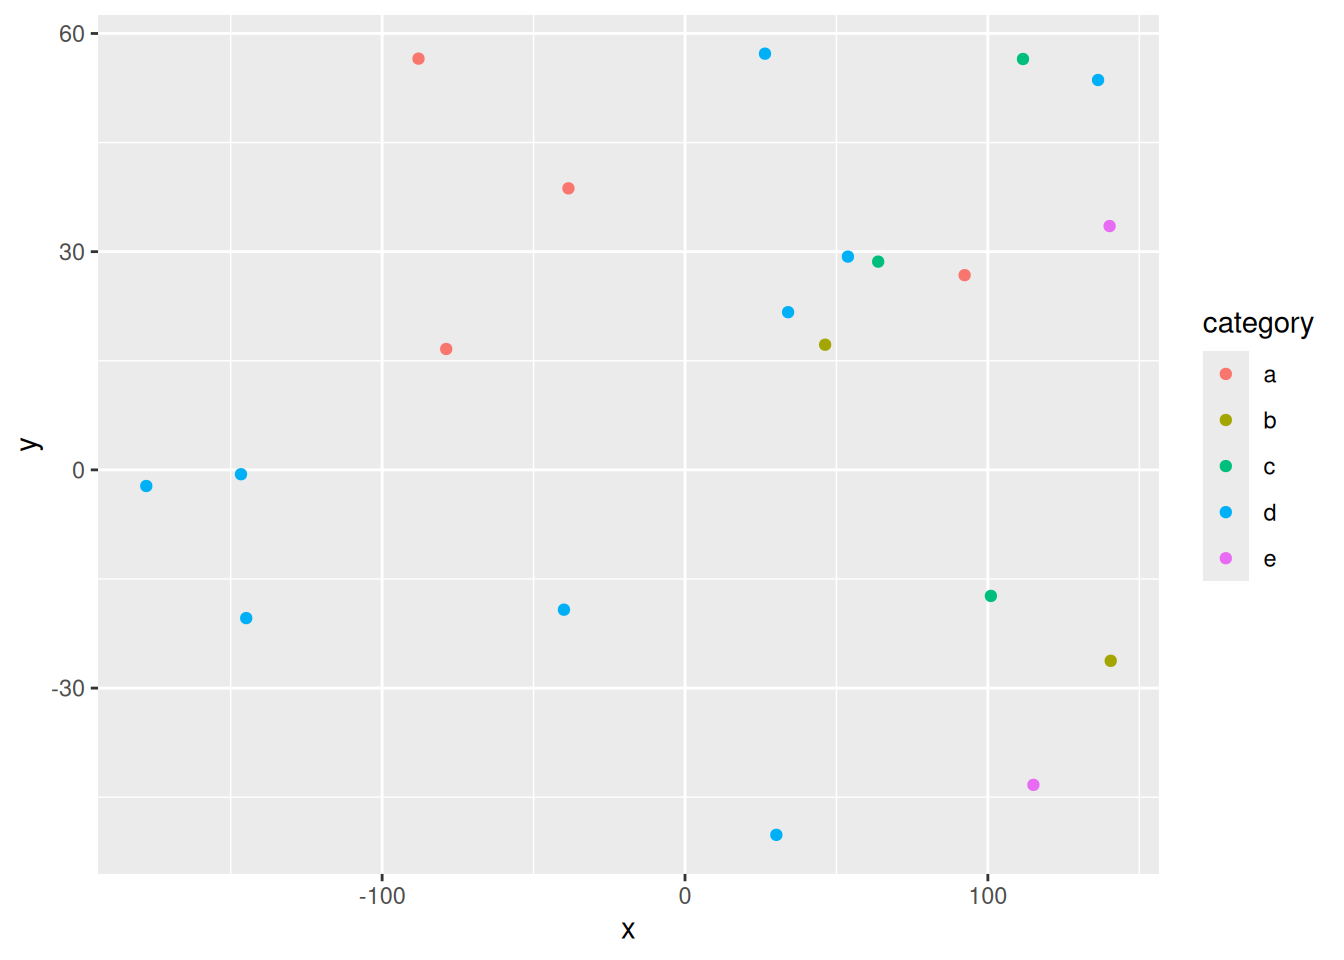
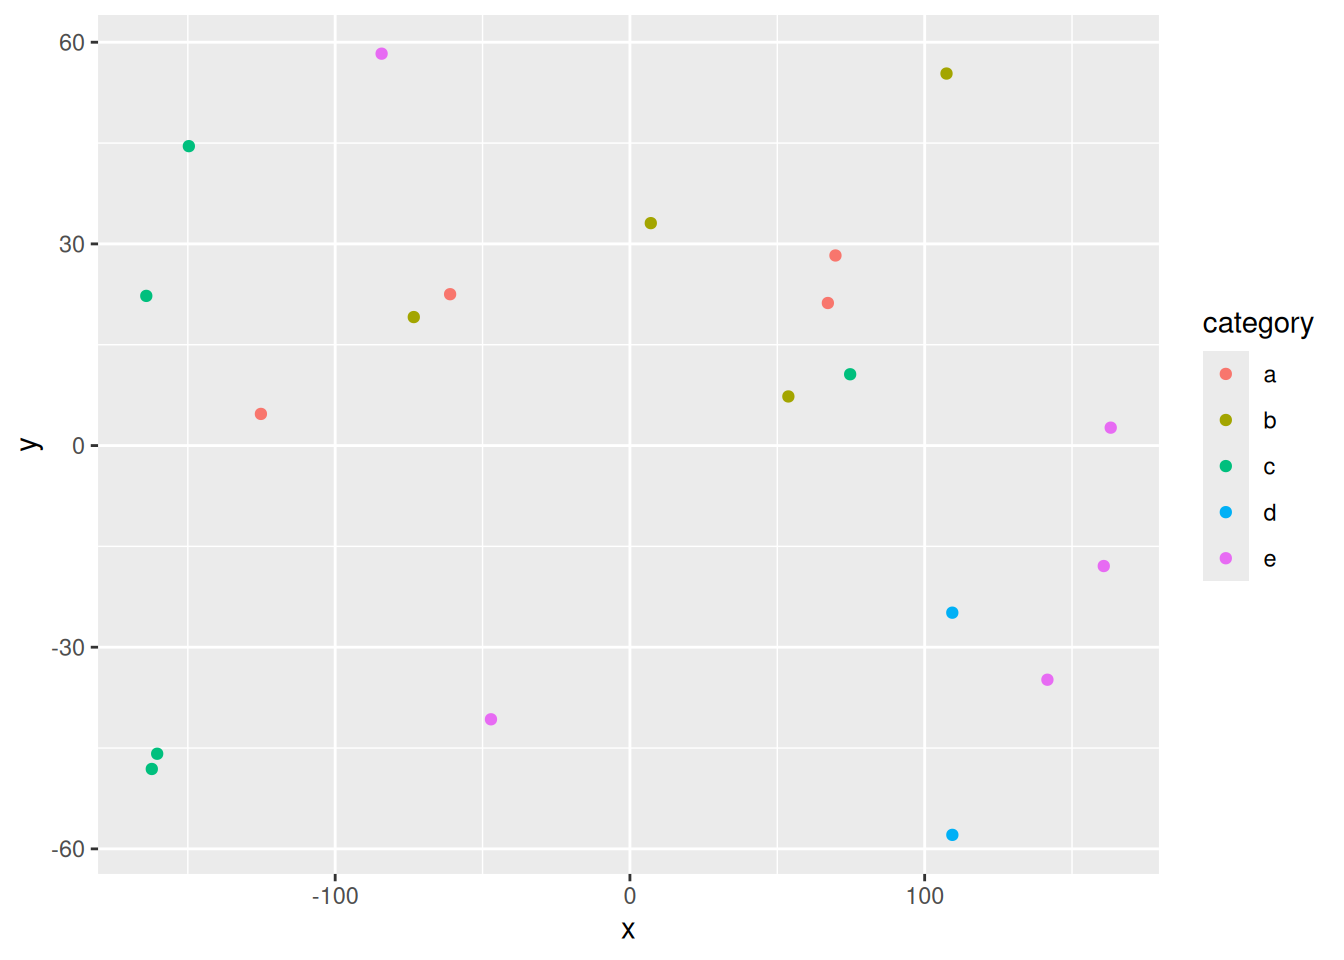
Built site for gh-pages

diff --git a/index.html b/index.html
@@ -7,7 +7,7 @@
 <meta name="viewport" content="width=device-width, initial-scale=1.0, user-scalable=yes">
 
 <meta name="author" content="Your name here">
-<meta name="dcterms.date" content="2025-10-23">
+<meta name="dcterms.date" content="2025-11-10">
 
 <title>My Final Project Template – GEO511_FinalProject</title>
 <style>
@@ -190,7 +190,7 @@ pre > code.sourceCode > span > a:first-child::before { text-decoration: underlin
     <div>
     <div class="quarto-title-meta-heading">Published</div>
     <div class="quarto-title-meta-contents">
-      <p class="date">October 23, 2025</p>
+      <p class="date">November 10, 2025</p>
     </div>
   </div>
   
@@ -271,74 +271,74 @@ pre > code.sourceCode > span > a:first-child::before { text-decoration: underlin
 </thead>
 <tbody>
 <tr class="odd">
-<td style="text-align: center;">53.79</td>
-<td style="text-align: center;">29.32</td>
-<td style="text-align: center;">12.93</td>
+<td style="text-align: center;">109.38</td>
+<td style="text-align: center;">-24.86</td>
+<td style="text-align: center;">14.96</td>
 <td style="text-align: center;">d</td>
-<td style="text-align: center;">-1.07</td>
+<td style="text-align: center;">-0.86</td>
 </tr>
 <tr class="even">
-<td style="text-align: center;">-177.87</td>
-<td style="text-align: center;">-2.22</td>
-<td style="text-align: center;">6.03</td>
-<td style="text-align: center;">d</td>
-<td style="text-align: center;">-0.33</td>
-</tr>
-<tr class="odd">
-<td style="text-align: center;">26.41</td>
-<td style="text-align: center;">57.22</td>
-<td style="text-align: center;">10.30</td>
-<td style="text-align: center;">d</td>
-<td style="text-align: center;">0.57</td>
-</tr>
-<tr class="even">
-<td style="text-align: center;">-144.87</td>
-<td style="text-align: center;">-20.38</td>
-<td style="text-align: center;">19.46</td>
-<td style="text-align: center;">d</td>
-<td style="text-align: center;">0.09</td>
-</tr>
-<tr class="odd">
-<td style="text-align: center;">-39.97</td>
-<td style="text-align: center;">-19.22</td>
-<td style="text-align: center;">6.67</td>
-<td style="text-align: center;">d</td>
-<td style="text-align: center;">1.36</td>
-</tr>
-<tr class="even">
-<td style="text-align: center;">111.60</td>
-<td style="text-align: center;">56.49</td>
-<td style="text-align: center;">15.22</td>
-<td style="text-align: center;">c</td>
-<td style="text-align: center;">-1.84</td>
-</tr>
-<tr class="odd">
-<td style="text-align: center;">136.38</td>
-<td style="text-align: center;">53.60</td>
-<td style="text-align: center;">12.09</td>
-<td style="text-align: center;">d</td>
-<td style="text-align: center;">-0.33</td>
-</tr>
-<tr class="even">
-<td style="text-align: center;">30.16</td>
-<td style="text-align: center;">-50.18</td>
-<td style="text-align: center;">5.21</td>
-<td style="text-align: center;">d</td>
-<td style="text-align: center;">0.28</td>
-</tr>
-<tr class="odd">
-<td style="text-align: center;">115.04</td>
-<td style="text-align: center;">-43.30</td>
-<td style="text-align: center;">15.40</td>
+<td style="text-align: center;">-47.14</td>
+<td style="text-align: center;">-40.72</td>
+<td style="text-align: center;">7.38</td>
 <td style="text-align: center;">e</td>
-<td style="text-align: center;">2.83</td>
+<td style="text-align: center;">2.34</td>
+</tr>
+<tr class="odd">
+<td style="text-align: center;">-164.09</td>
+<td style="text-align: center;">22.26</td>
+<td style="text-align: center;">13.46</td>
+<td style="text-align: center;">c</td>
+<td style="text-align: center;">-0.23</td>
 </tr>
 <tr class="even">
-<td style="text-align: center;">34.04</td>
-<td style="text-align: center;">21.68</td>
-<td style="text-align: center;">8.04</td>
+<td style="text-align: center;">107.41</td>
+<td style="text-align: center;">55.34</td>
+<td style="text-align: center;">9.95</td>
+<td style="text-align: center;">b</td>
+<td style="text-align: center;">-0.32</td>
+</tr>
+<tr class="odd">
+<td style="text-align: center;">160.77</td>
+<td style="text-align: center;">-17.92</td>
+<td style="text-align: center;">14.18</td>
+<td style="text-align: center;">e</td>
+<td style="text-align: center;">-0.68</td>
+</tr>
+<tr class="even">
+<td style="text-align: center;">109.40</td>
+<td style="text-align: center;">-57.92</td>
+<td style="text-align: center;">9.51</td>
 <td style="text-align: center;">d</td>
-<td style="text-align: center;">0.13</td>
+<td style="text-align: center;">-0.19</td>
+</tr>
+<tr class="odd">
+<td style="text-align: center;">-73.33</td>
+<td style="text-align: center;">19.12</td>
+<td style="text-align: center;">14.43</td>
+<td style="text-align: center;">b</td>
+<td style="text-align: center;">-0.69</td>
+</tr>
+<tr class="even">
+<td style="text-align: center;">163.13</td>
+<td style="text-align: center;">2.66</td>
+<td style="text-align: center;">18.37</td>
+<td style="text-align: center;">e</td>
+<td style="text-align: center;">-0.45</td>
+</tr>
+<tr class="odd">
+<td style="text-align: center;">7.08</td>
+<td style="text-align: center;">33.09</td>
+<td style="text-align: center;">7.65</td>
+<td style="text-align: center;">b</td>
+<td style="text-align: center;">-0.27</td>
+</tr>
+<tr class="even">
+<td style="text-align: center;">-149.65</td>
+<td style="text-align: center;">44.54</td>
+<td style="text-align: center;">18.89</td>
+<td style="text-align: center;">c</td>
+<td style="text-align: center;">-0.88</td>
 </tr>
 </tbody>
 </table>
@@ -358,8 +358,8 @@ pre > code.sourceCode > span > a:first-child::before { text-decoration: underlin
 <span id="cb5-4"><a href="#cb5-4" aria-hidden="true" tabindex="-1"></a>  <span class="fu">addPopups</span>(<span class="sc">~</span>x[<span class="dv">2</span>], <span class="sc">~</span>y[<span class="dv">2</span>], <span class="st">"Random popup"</span>)</span>
 <span id="cb5-5"><a href="#cb5-5" aria-hidden="true" tabindex="-1"></a>m  <span class="co"># a map with the default OSM tile layer</span></span></code></pre></div><button title="Copy to Clipboard" class="code-copy-button"><i class="bi"></i></button></div>
 <div class="cell-output-display">
-<div class="leaflet html-widget html-fill-item" id="htmlwidget-3500131f43f1b51f72bf" style="width:100%;height:325px;"></div>
-<script type="application/json" data-for="htmlwidget-3500131f43f1b51f72bf">{"x":{"options":{"crs":{"crsClass":"L.CRS.EPSG3857","code":null,"proj4def":null,"projectedBounds":null,"options":{}}},"calls":[{"method":"addTiles","args":["https://{s}.tile.openstreetmap.org/{z}/{x}/{y}.png",null,null,{"minZoom":0,"maxZoom":18,"tileSize":256,"subdomains":"abc","errorTileUrl":"","tms":false,"noWrap":false,"zoomOffset":0,"zoomReverse":false,"opacity":1,"zIndex":1,"detectRetina":false,"attribution":"&copy; <a href=\"https://openstreetmap.org/copyright/\">OpenStreetMap<\/a>,  <a href=\"https://opendatacommons.org/licenses/odbl/\">ODbL<\/a>"}]},{"method":"addCircleMarkers","args":[[29.32143260724843,-2.217056108638644,57.22122785635293,-20.38027443923056,-19.22183451242745,56.48714544251561,53.60004108399153,-50.18150324933231,-43.30370276235044,21.67820437811315,33.52087682113051,28.62943145446479,56.54016640037298,16.61862932145596,-17.33095253817737,-26.25238973647356,26.77203113213181,-0.5999741144478321,17.20906298607588,38.70516300201416],[53.78805935382843,-177.8660380281508,26.41120305284858,-144.865376483649,-39.96949796564877,111.5983105637133,136.3840375375003,30.16264208592474,115.0356755778193,34.03960238210857,140.1912639196962,63.78247238695621,-87.98833577893674,-78.8395537622273,100.9929083380848,140.5605056136847,92.32321000657976,-146.5976640768349,46.26656021922827,-38.4827397018671],[12.93352014850825,6.034817178733647,10.30200644163415,19.46151993819512,6.674930345034227,15.21806569653563,12.08990148035809,5.20958787179552,15.40103744948283,8.03518156753853,18.64350995398127,10.58376577566378,19.494179940084,9.645543943624943,7.847512232838199,10.61626432463527,18.99728662101552,6.590229156427085,12.28545587393455,15.88225798564963],null,null,{"interactive":true,"className":"","stroke":true,"color":["d","d","d","d","d","c","d","d","e","d","e","c","a","a","c","b","a","d","b","a"],"weight":5,"opacity":0.5,"fill":true,"fillColor":["d","d","d","d","d","c","d","d","e","d","e","c","a","a","c","b","a","d","b","a"],"fillOpacity":0.2},null,null,null,null,null,{"interactive":false,"permanent":false,"direction":"auto","opacity":1,"offset":[0,0],"textsize":"10px","textOnly":false,"className":"","sticky":true},null]},{"method":"addPopups","args":[-2.217056108638644,-177.8660380281508,"Random popup",null,null,{"maxWidth":300,"minWidth":50,"autoPan":true,"keepInView":false,"closeButton":true,"className":""}]}],"limits":{"lat":[-50.18150324933231,57.22122785635293],"lng":[-177.8660380281508,140.5605056136847]}},"evals":[],"jsHooks":[]}</script>
+<div class="leaflet html-widget html-fill-item" id="htmlwidget-d76a1faff56ae2c4dcf8" style="width:100%;height:325px;"></div>
+<script type="application/json" data-for="htmlwidget-d76a1faff56ae2c4dcf8">{"x":{"options":{"crs":{"crsClass":"L.CRS.EPSG3857","code":null,"proj4def":null,"projectedBounds":null,"options":{}}},"calls":[{"method":"addTiles","args":["https://{s}.tile.openstreetmap.org/{z}/{x}/{y}.png",null,null,{"minZoom":0,"maxZoom":18,"tileSize":256,"subdomains":"abc","errorTileUrl":"","tms":false,"noWrap":false,"zoomOffset":0,"zoomReverse":false,"opacity":1,"zIndex":1,"detectRetina":false,"attribution":"&copy; <a href=\"https://openstreetmap.org/copyright/\">OpenStreetMap<\/a>,  <a href=\"https://opendatacommons.org/licenses/odbl/\">ODbL<\/a>"}]},{"method":"addCircleMarkers","args":[[-24.86333356238902,-40.72499943897128,22.26440752856433,55.34326552413404,-17.9239553399384,-57.91856118477881,19.11507083103061,2.662111222743988,33.08931517414749,44.54291573725641,10.60601835139096,7.304022358730435,22.51632872968912,28.2769126072526,-45.84983448497951,-34.83703594654799,4.707073615863919,-48.11648779548705,58.30039529129863,21.20635553263128],[109.3778459262103,-47.14352857321501,-164.0889817290008,107.413644483313,160.7674935087562,109.3987424299121,-73.33131350576878,163.1280370149761,7.083243699744344,-149.6486742328852,74.7239145822823,53.76079075969756,-61.0068747214973,69.73653894849122,-160.3947418089956,141.6502440534532,-125.2006402239203,-162.2206259239465,-84.24756590276957,67.16060064733028],[14.96469126548618,7.381911666598171,13.45560044050217,9.947387669235468,14.18258983641863,9.511097919894382,14.43188149132766,18.36712392279878,7.651971410959959,18.888154810993,7.587072129826993,11.8602239608299,19.7368807438761,10.51097368937917,5.109427286079153,17.56059835781343,6.019889417802915,19.49577332590707,8.763547645648941,6.869137515313923],null,null,{"interactive":true,"className":"","stroke":true,"color":["d","e","c","b","e","d","b","e","b","c","c","b","a","a","c","e","a","c","e","a"],"weight":5,"opacity":0.5,"fill":true,"fillColor":["d","e","c","b","e","d","b","e","b","c","c","b","a","a","c","e","a","c","e","a"],"fillOpacity":0.2},null,null,null,null,null,{"interactive":false,"permanent":false,"direction":"auto","opacity":1,"offset":[0,0],"textsize":"10px","textOnly":false,"className":"","sticky":true},null]},{"method":"addPopups","args":[-40.72499943897128,-47.14352857321501,"Random popup",null,null,{"maxWidth":300,"minWidth":50,"autoPan":true,"keepInView":false,"closeButton":true,"className":""}]}],"limits":{"lat":[-57.91856118477881,58.30039529129863],"lng":[-164.0889817290008,163.1280370149761]}},"evals":[],"jsHooks":[]}</script>
 <p>Map of completely random data</p>
 </div>
 </div>
@@ -382,8 +382,8 @@ pre > code.sourceCode > span > a:first-child::before { text-decoration: underlin
 <span id="cb7-2"><a href="#cb7-2" aria-hidden="true" tabindex="-1"></a><span class="fu">dygraph</span>(nhtemp, <span class="at">main =</span> <span class="st">"New Haven Temperatures"</span>) <span class="sc">|&gt;</span> </span>
 <span id="cb7-3"><a href="#cb7-3" aria-hidden="true" tabindex="-1"></a>  <span class="fu">dyRangeSelector</span>(<span class="at">dateWindow =</span> <span class="fu">c</span>(<span class="st">"1920-01-01"</span>, <span class="st">"1960-01-01"</span>)) </span></code></pre></div><button title="Copy to Clipboard" class="code-copy-button"><i class="bi"></i></button></div>
 <div class="cell-output-display">
-<div class="dygraphs html-widget html-fill-item" id="htmlwidget-f2fcaa111210c8c0810b" style="width:100%;height:464px;"></div>
-<script type="application/json" data-for="htmlwidget-f2fcaa111210c8c0810b">{"x":{"attrs":{"title":"New Haven Temperatures","labels":["year","V1"],"legend":"auto","retainDateWindow":false,"axes":{"x":{"pixelsPerLabel":60}},"showRangeSelector":true,"dateWindow":["1920-01-01T00:00:00.000Z","1960-01-01T00:00:00.000Z"],"rangeSelectorHeight":40,"rangeSelectorPlotFillColor":" #A7B1C4","rangeSelectorPlotStrokeColor":"#808FAB","interactionModel":"Dygraph.Interaction.defaultModel"},"scale":"yearly","annotations":[],"shadings":[],"events":[],"format":"date","data":[["1912-01-01T00:00:00.000Z","1913-01-01T00:00:00.000Z","1914-01-01T00:00:00.000Z","1915-01-01T00:00:00.000Z","1916-01-01T00:00:00.000Z","1917-01-01T00:00:00.000Z","1918-01-01T00:00:00.000Z","1919-01-01T00:00:00.000Z","1920-01-01T00:00:00.000Z","1921-01-01T00:00:00.000Z","1922-01-01T00:00:00.000Z","1923-01-01T00:00:00.000Z","1924-01-01T00:00:00.000Z","1925-01-01T00:00:00.000Z","1926-01-01T00:00:00.000Z","1927-01-01T00:00:00.000Z","1928-01-01T00:00:00.000Z","1929-01-01T00:00:00.000Z","1930-01-01T00:00:00.000Z","1931-01-01T00:00:00.000Z","1932-01-01T00:00:00.000Z","1933-01-01T00:00:00.000Z","1934-01-01T00:00:00.000Z","1935-01-01T00:00:00.000Z","1936-01-01T00:00:00.000Z","1937-01-01T00:00:00.000Z","1938-01-01T00:00:00.000Z","1939-01-01T00:00:00.000Z","1940-01-01T00:00:00.000Z","1941-01-01T00:00:00.000Z","1942-01-01T00:00:00.000Z","1943-01-01T00:00:00.000Z","1944-01-01T00:00:00.000Z","1945-01-01T00:00:00.000Z","1946-01-01T00:00:00.000Z","1947-01-01T00:00:00.000Z","1948-01-01T00:00:00.000Z","1949-01-01T00:00:00.000Z","1950-01-01T00:00:00.000Z","1951-01-01T00:00:00.000Z","1952-01-01T00:00:00.000Z","1953-01-01T00:00:00.000Z","1954-01-01T00:00:00.000Z","1955-01-01T00:00:00.000Z","1956-01-01T00:00:00.000Z","1957-01-01T00:00:00.000Z","1958-01-01T00:00:00.000Z","1959-01-01T00:00:00.000Z","1960-01-01T00:00:00.000Z","1961-01-01T00:00:00.000Z","1962-01-01T00:00:00.000Z","1963-01-01T00:00:00.000Z","1964-01-01T00:00:00.000Z","1965-01-01T00:00:00.000Z","1966-01-01T00:00:00.000Z","1967-01-01T00:00:00.000Z","1968-01-01T00:00:00.000Z","1969-01-01T00:00:00.000Z","1970-01-01T00:00:00.000Z","1971-01-01T00:00:00.000Z"],[49.9,52.3,49.4,51.1,49.4,47.9,49.8,50.9,49.3,51.9,50.8,49.6,49.3,50.6,48.4,50.7,50.9,50.6,51.5,52.8,51.8,51.1,49.8,50.2,50.4,51.6,51.8,50.9,48.8,51.7,51,50.6,51.7,51.5,52.1,51.3,51,54,51.4,52.7,53.1,54.6,52,52,50.9,52.6,50.2,52.6,51.6,51.9,50.5,50.9,51.7,51.4,51.7,50.8,51.9,51.8,51.9,53]]},"evals":["attrs.interactionModel"],"jsHooks":[]}</script>
+<div class="dygraphs html-widget html-fill-item" id="htmlwidget-5376f04c85dbf515c9b6" style="width:100%;height:464px;"></div>
+<script type="application/json" data-for="htmlwidget-5376f04c85dbf515c9b6">{"x":{"attrs":{"title":"New Haven Temperatures","labels":["year","V1"],"legend":"auto","retainDateWindow":false,"axes":{"x":{"pixelsPerLabel":60}},"showRangeSelector":true,"dateWindow":["1920-01-01T00:00:00.000Z","1960-01-01T00:00:00.000Z"],"rangeSelectorHeight":40,"rangeSelectorPlotFillColor":" #A7B1C4","rangeSelectorPlotStrokeColor":"#808FAB","interactionModel":"Dygraph.Interaction.defaultModel"},"scale":"yearly","annotations":[],"shadings":[],"events":[],"format":"date","data":[["1912-01-01T00:00:00.000Z","1913-01-01T00:00:00.000Z","1914-01-01T00:00:00.000Z","1915-01-01T00:00:00.000Z","1916-01-01T00:00:00.000Z","1917-01-01T00:00:00.000Z","1918-01-01T00:00:00.000Z","1919-01-01T00:00:00.000Z","1920-01-01T00:00:00.000Z","1921-01-01T00:00:00.000Z","1922-01-01T00:00:00.000Z","1923-01-01T00:00:00.000Z","1924-01-01T00:00:00.000Z","1925-01-01T00:00:00.000Z","1926-01-01T00:00:00.000Z","1927-01-01T00:00:00.000Z","1928-01-01T00:00:00.000Z","1929-01-01T00:00:00.000Z","1930-01-01T00:00:00.000Z","1931-01-01T00:00:00.000Z","1932-01-01T00:00:00.000Z","1933-01-01T00:00:00.000Z","1934-01-01T00:00:00.000Z","1935-01-01T00:00:00.000Z","1936-01-01T00:00:00.000Z","1937-01-01T00:00:00.000Z","1938-01-01T00:00:00.000Z","1939-01-01T00:00:00.000Z","1940-01-01T00:00:00.000Z","1941-01-01T00:00:00.000Z","1942-01-01T00:00:00.000Z","1943-01-01T00:00:00.000Z","1944-01-01T00:00:00.000Z","1945-01-01T00:00:00.000Z","1946-01-01T00:00:00.000Z","1947-01-01T00:00:00.000Z","1948-01-01T00:00:00.000Z","1949-01-01T00:00:00.000Z","1950-01-01T00:00:00.000Z","1951-01-01T00:00:00.000Z","1952-01-01T00:00:00.000Z","1953-01-01T00:00:00.000Z","1954-01-01T00:00:00.000Z","1955-01-01T00:00:00.000Z","1956-01-01T00:00:00.000Z","1957-01-01T00:00:00.000Z","1958-01-01T00:00:00.000Z","1959-01-01T00:00:00.000Z","1960-01-01T00:00:00.000Z","1961-01-01T00:00:00.000Z","1962-01-01T00:00:00.000Z","1963-01-01T00:00:00.000Z","1964-01-01T00:00:00.000Z","1965-01-01T00:00:00.000Z","1966-01-01T00:00:00.000Z","1967-01-01T00:00:00.000Z","1968-01-01T00:00:00.000Z","1969-01-01T00:00:00.000Z","1970-01-01T00:00:00.000Z","1971-01-01T00:00:00.000Z"],[49.9,52.3,49.4,51.1,49.4,47.9,49.8,50.9,49.3,51.9,50.8,49.6,49.3,50.6,48.4,50.7,50.9,50.6,51.5,52.8,51.8,51.1,49.8,50.2,50.4,51.6,51.8,50.9,48.8,51.7,51,50.6,51.7,51.5,52.1,51.3,51,54,51.4,52.7,53.1,54.6,52,52,50.9,52.6,50.2,52.6,51.6,51.9,50.5,50.9,51.7,51.4,51.7,50.8,51.9,51.8,51.9,53]]},"evals":["attrs.interactionModel"],"jsHooks":[]}</script>
 </div>
 </div>
 </section>
@@ -474,7 +474,7 @@ pre > code.sourceCode > span > a:first-child::before { text-decoration: underlin
     }
       var localhostRegex = new RegExp(/^(?:http|https):\/\/localhost\:?[0-9]*\//);
       var mailtoRegex = new RegExp(/^mailto:/);
-        var filterRegex = new RegExp("https:\/\/AdamWilsonLabEDU\.github\.io\/GEO511_QuartoProjectTemplate\/");
+        var filterRegex = new RegExp("https:\/\/cstaebell\.github\.io\/final-project-cstaebell\/");
       var isInternal = (href) => {
           return filterRegex.test(href) || localhostRegex.test(href) || mailtoRegex.test(href);
       }

diff --git a/about.html b/about.html
@@ -252,7 +252,7 @@ pre > code.sourceCode > span > a:first-child::before { text-decoration: underlin
     }
       var localhostRegex = new RegExp(/^(?:http|https):\/\/localhost\:?[0-9]*\//);
       var mailtoRegex = new RegExp(/^mailto:/);
-        var filterRegex = new RegExp("https:\/\/AdamWilsonLabEDU\.github\.io\/GEO511_QuartoProjectTemplate\/");
+        var filterRegex = new RegExp("https:\/\/cstaebell\.github\.io\/final-project-cstaebell\/");
       var isInternal = (href) => {
           return filterRegex.test(href) || localhostRegex.test(href) || mailtoRegex.test(href);
       }

diff --git a/data/Readme.html b/data/Readme.html
@@ -198,7 +198,7 @@ ul.task-list li input[type="checkbox"] {
     }
       var localhostRegex = new RegExp(/^(?:http|https):\/\/localhost\:?[0-9]*\//);
       var mailtoRegex = new RegExp(/^mailto:/);
-        var filterRegex = new RegExp("https:\/\/AdamWilsonLabEDU\.github\.io\/GEO511_QuartoProjectTemplate\/");
+        var filterRegex = new RegExp("https:\/\/cstaebell\.github\.io\/final-project-cstaebell\/");
       var isInternal = (href) => {
           return filterRegex.test(href) || localhostRegex.test(href) || mailtoRegex.test(href);
       }
